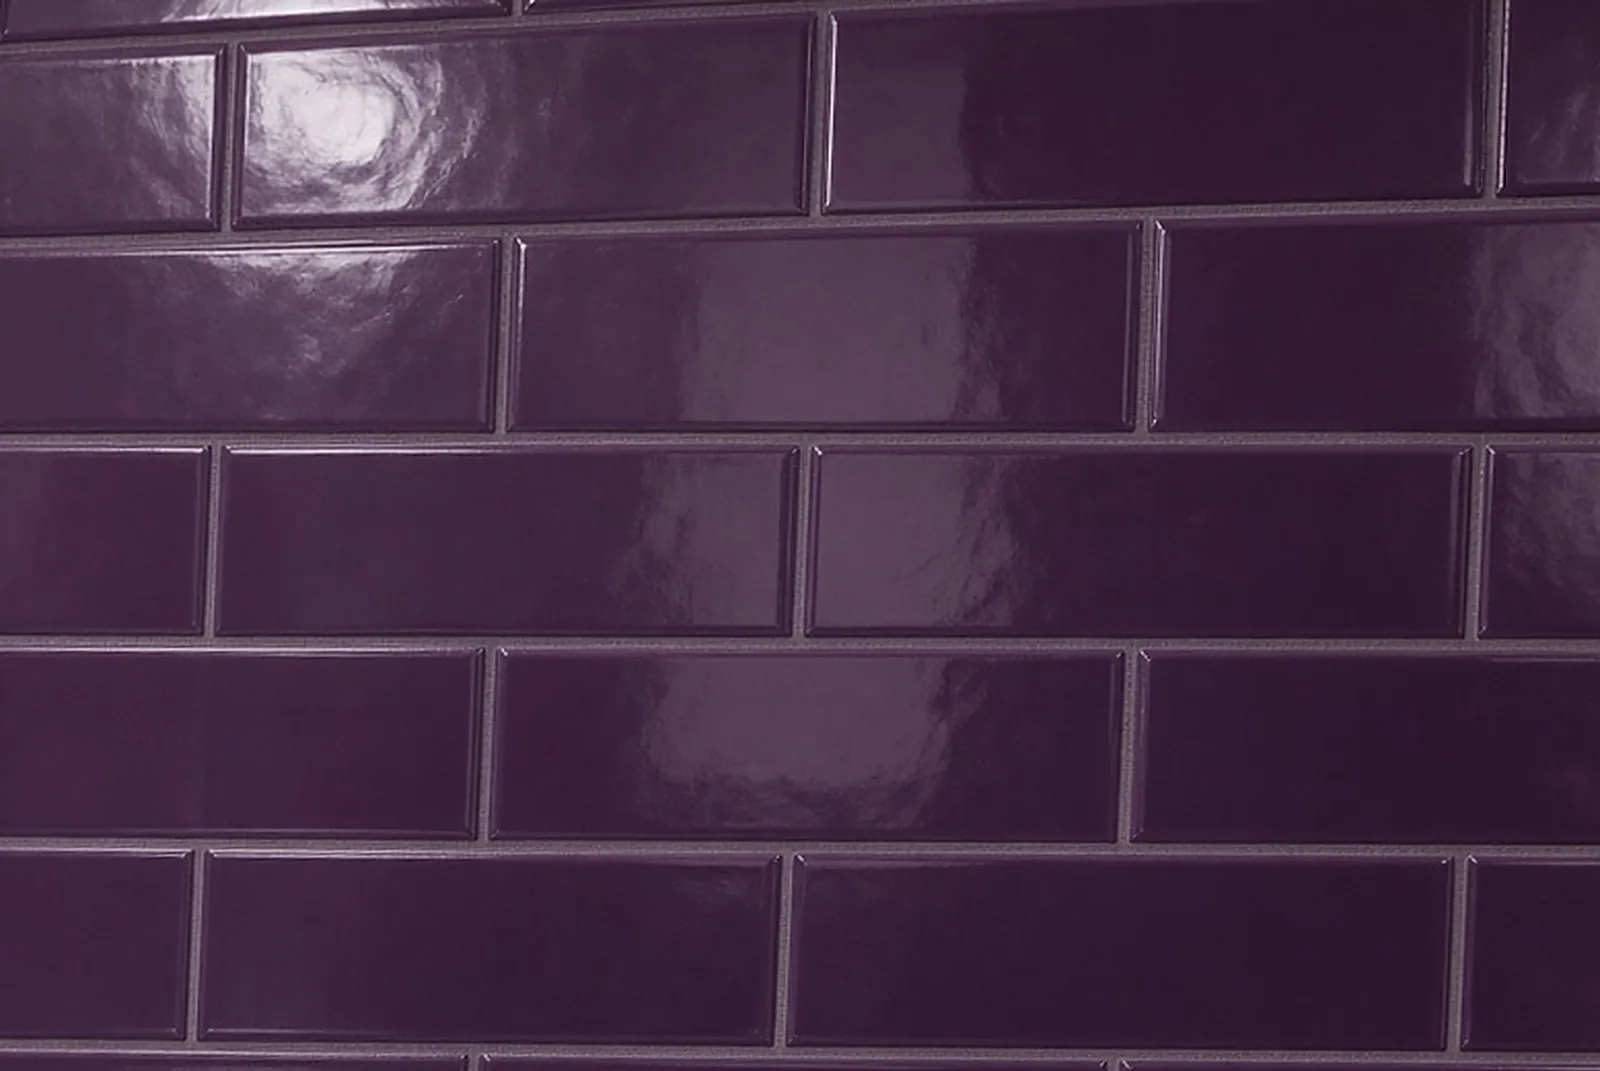
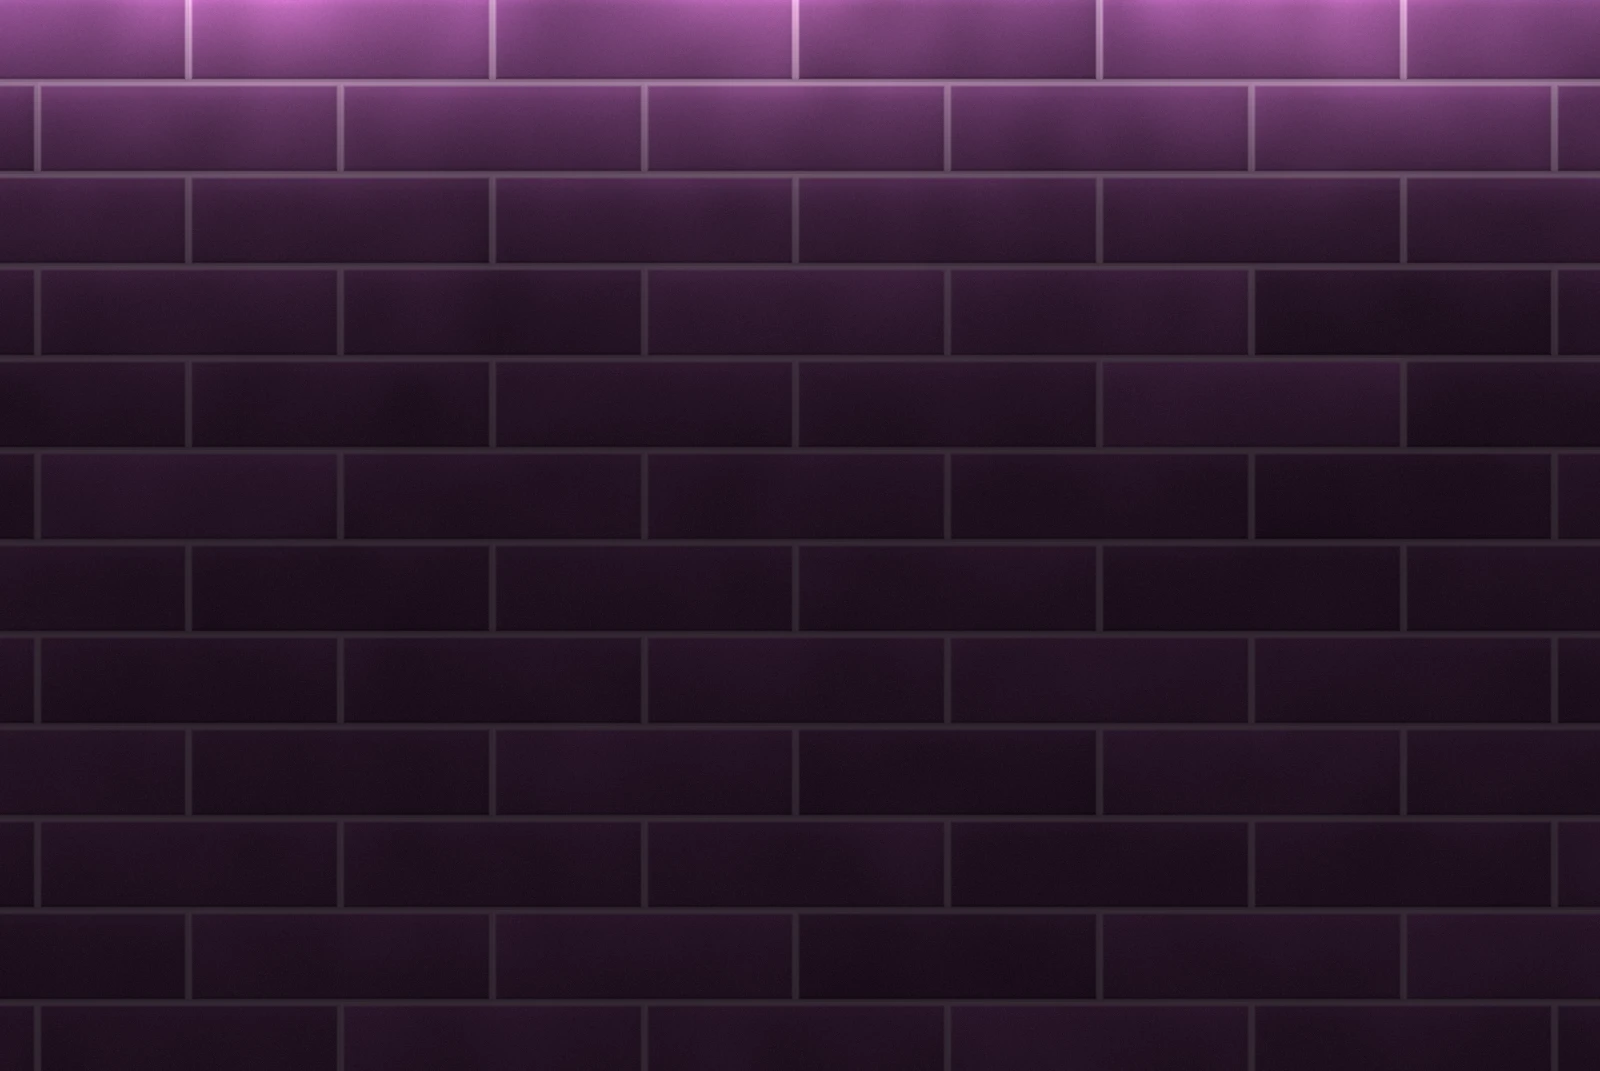
feat(bling-kitchen): under-cabinet lit tile wall, lighter grout, pendant-visible hero (Smoke bkf7)

diff --git a/public/amethyst/Homepage.html b/public/amethyst/Homepage.html
@@ -26,7 +26,7 @@
 <link rel="stylesheet" href="tokens.css?v=20260725-emerald-garden" />
 <link rel="stylesheet" href="components.css?v=20260725-emerald-garden" />
 <link rel="stylesheet" href="homepage.css?v=20261002-compact-lineup" />
-<link rel="stylesheet" href="/amethyst/bling-kitchen/framed-hero.css?v=20261010-bkf6" />
+<link rel="stylesheet" href="/amethyst/bling-kitchen/framed-hero.css?v=20261011-bkf7" />
 <link rel="stylesheet" href="/amethyst/gnome-garden.css?v=20260905-gnome1" />
 <link rel="stylesheet" href="/amethyst/neon-butterfly.css?v=20260914-nb1" />
 <link rel="stylesheet" href="/amethyst/halloween-pumpkin-witch.css?v=20260928-hpw4" />

diff --git a/lib/bling-kitchen/profile.ts b/lib/bling-kitchen/profile.ts
@@ -20,7 +20,7 @@ export const BLING_KITCHEN_PROFILE = {
   tiktokHandle: '@blingkitchen',
   facebookVipUrl: 'https://www.facebook.com/groups/1485026002799524',
   heroImageUrl:
-    'https://bqhzfkgkjyuhlsozpylf.supabase.co/storage/v1/object/public/public-site-media/9a971c05-3631-443e-bcb8-4e9a26e15885/profile/4a5a2fb9-2c72-4536-94d3-771915d80dc6-homepage-hero.jpg',
+    '/amethyst/bling-kitchen/homepage-hero-pendant.jpg',
   aboutImageUrl:
     'https://bqhzfkgkjyuhlsozpylf.supabase.co/storage/v1/object/public/public-site-media/9a971c05-3631-443e-bcb8-4e9a26e15885/profile/40fa6136-b6d1-45b9-b88d-42bfce0f5207-about.jpg',
   joinHeroImageUrl:

diff --git a/public/amethyst/bling-kitchen/framed-hero.css b/public/amethyst/bling-kitchen/framed-hero.css
@@ -166,7 +166,7 @@
   background-color: #2a1340;
   background-image:
     linear-gradient(90deg, rgba(36, 15, 56, 0.8) 0%, rgba(36, 15, 56, 0.6) 34%, rgba(36, 15, 56, 0.18) 62%, rgba(36, 15, 56, 0.08) 100%),
-    linear-gradient(180deg, rgba(36, 15, 56, 0.2), rgba(36, 15, 56, 0) 25%, rgba(36, 15, 56, 0) 75%, rgba(36, 15, 56, 0.35)),
+    linear-gradient(180deg, rgba(36, 15, 56, 0), rgba(36, 15, 56, 0) 25%, rgba(36, 15, 56, 0) 75%, rgba(36, 15, 56, 0.35)),
     url("/amethyst/bling-kitchen/tile-wall.webp");
   background-size: auto, auto, cover;
   background-position: center, center, right top;
